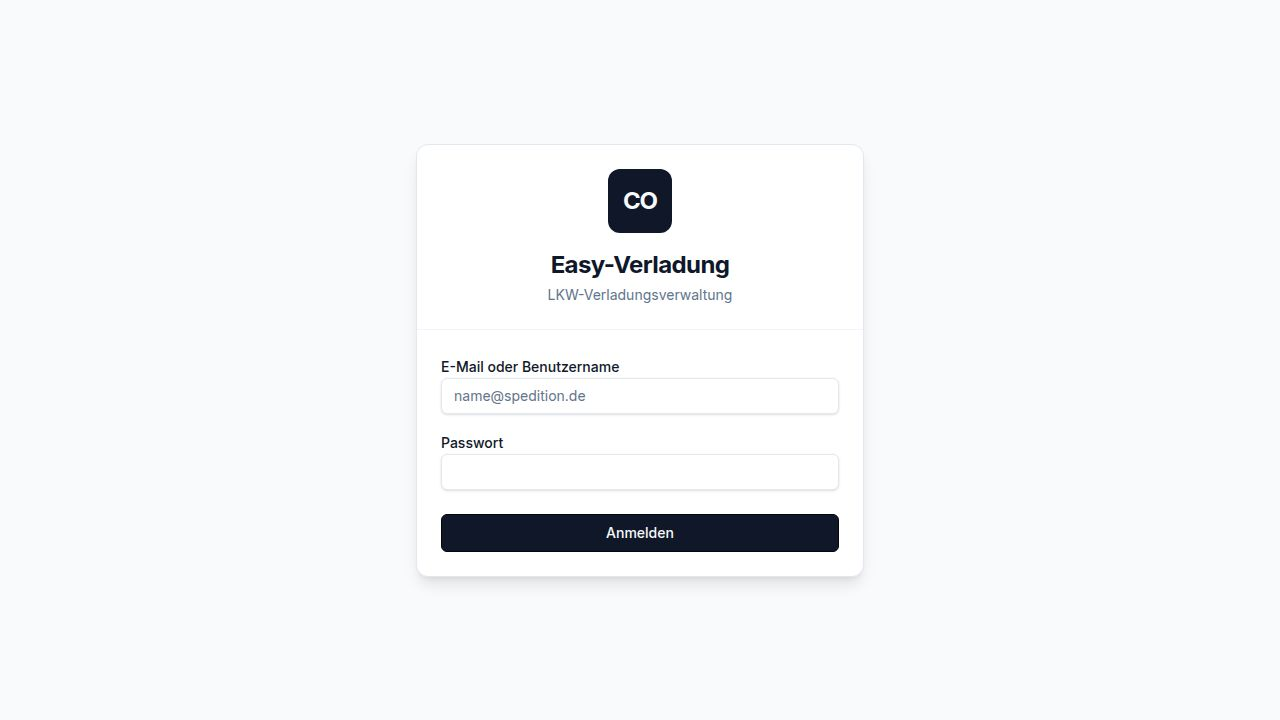
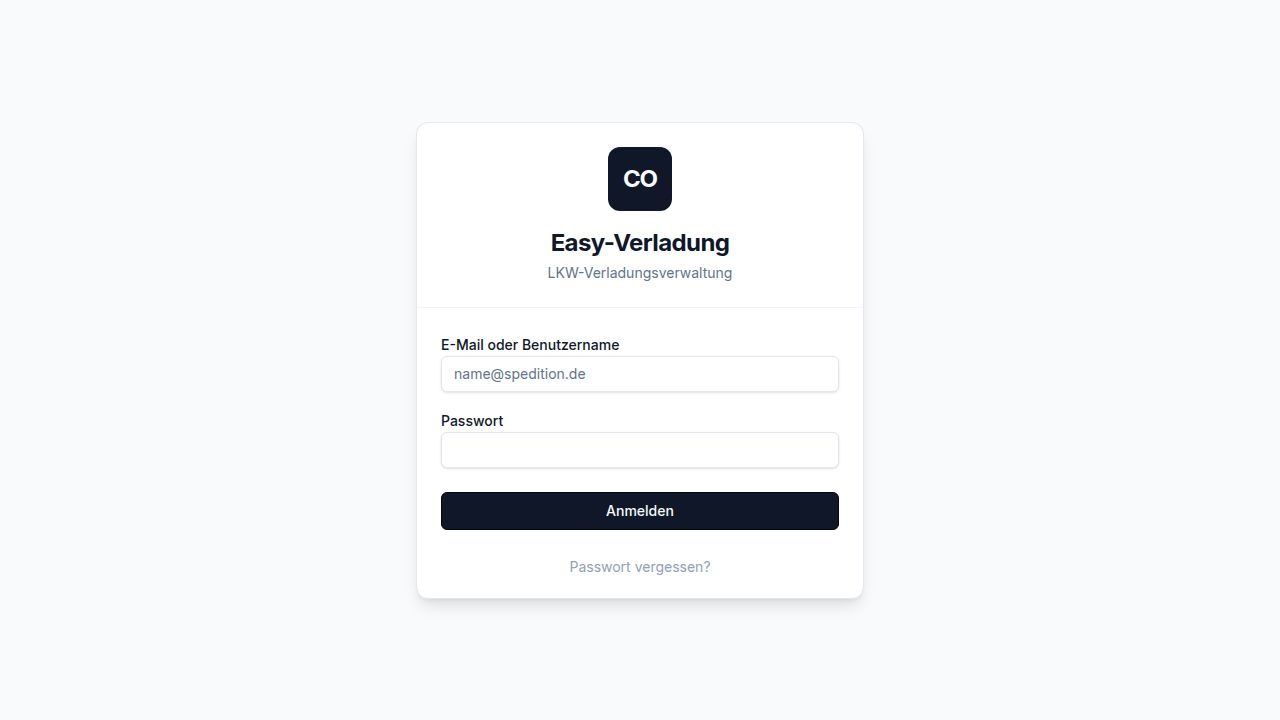
Add error display for push notification subscription failures
Implement a toast notification to inform users of push subscription errors and update the push notification hook to handle and display these errors.

Replit-Commit-Author: Agent
Replit-Commit-Session-Id: 8f7831d2-b04e-40cf-b1ed-1f4c592e6710
Replit-Commit-Checkpoint-Type: full_checkpoint
Replit-Commit-Event-Id: a2ac5193-3e23-4a90-b31a-fa5f7b5d62e4
Replit-Commit-Screenshot-Url: https://storage.googleapis.com/screenshot-production-us-central1/7ff45556-65b3-42a8-8e14-2ac3c5498ac5/8f7831d2-b04e-40cf-b1ed-1f4c592e6710/luD5ney
Replit-Helium-Checkpoint-Created: true

Changed region(s): [[0.3438, 0.6722, 0.6562, 0.825], [0.4062, 0.1833, 0.5938, 0.4278], [0.3438, 0.4583, 0.5, 0.6417]]

diff --git a/artifacts/comet-lkw/src/hooks/usePushNotifications.ts b/artifacts/comet-lkw/src/hooks/usePushNotifications.ts
@@ -20,40 +20,16 @@ export function usePushNotifications() {
   const [error, setError] = useState<string | null>(null);
 
   const checkState = useCallback(async () => {
-    // 1. Browser-Support
+    // Nur Browser-Support prüfen — Server-Check gehört in subscribe(), nicht hier.
+    // So bleibt der Button sichtbar, auch wenn VAPID noch nicht konfiguriert ist.
     if (!("serviceWorker" in navigator) || !("PushManager" in window) || !("Notification" in window)) {
       setState("unsupported");
       return;
     }
-
-    // 2. Server-Support — einmalige Prüfung; kein 503-Regen bei fehlendem VAPID-Key
-    try {
-      const keyRes = await fetch(`${API}/push/vapid-public-key`, {
-        credentials: "include",
-        signal: AbortSignal.timeout(5000),
-      });
-      if (!keyRes.ok) {
-        setState("unsupported");
-        return;
-      }
-      const keyData = await keyRes.json();
-      if (!keyData.supported || !keyData.publicKey) {
-        setState("unsupported");
-        return;
-      }
-    } catch {
-      // Netzwerkfehler oder Timeout → als nicht verfügbar behandeln
-      setState("unsupported");
-      return;
-    }
-
-    // 3. Benachrichtigungserlaubnis
     if (Notification.permission === "denied") {
       setState("denied");
       return;
     }
-
-    // 4. Vorhandenes SW-Abonnement prüfen
     try {
       const reg = await navigator.serviceWorker.getRegistration();
       if (!reg) {
@@ -74,11 +50,16 @@ export function usePushNotifications() {
   const subscribe = useCallback(async () => {
     setError(null);
     try {
-      // VAPID-Key laden (ist bereits geprüft in checkState, aber nochmal für den Schlüssel)
-      const keyRes = await fetch(`${API}/push/vapid-public-key`, { credentials: "include" });
-      if (!keyRes.ok) throw new Error("Server nicht bereit");
+      // Server-Support prüfen (VAPID konfiguriert?)
+      const keyRes = await fetch(`${API}/push/vapid-public-key`, {
+        credentials: "include",
+        signal: AbortSignal.timeout(8000),
+      });
+      if (!keyRes.ok) throw new Error("Server nicht erreichbar");
       const keyData = await keyRes.json();
-      if (!keyData.supported || !keyData.publicKey) throw new Error("Push auf Server nicht konfiguriert");
+      if (!keyData.supported || !keyData.publicKey) {
+        throw new Error("Push-Benachrichtigungen sind auf dem Server noch nicht konfiguriert (VAPID-Keys fehlen).");
+      }
 
       // Erlaubnis anfragen
       const permission = await Notification.requestPermission();
@@ -87,7 +68,7 @@ export function usePushNotifications() {
         return;
       }
 
-      // SW registrieren falls nicht vorhanden
+      // SW registrieren falls noch nicht vorhanden
       let reg = await navigator.serviceWorker.getRegistration(SW_PATH);
       if (!reg) {
         reg = await navigator.serviceWorker.register(SW_PATH, { scope: "/" });

diff --git a/artifacts/comet-lkw/src/components/layout/sidebar.tsx b/artifacts/comet-lkw/src/components/layout/sidebar.tsx
@@ -1,4 +1,4 @@
-import { useState } from "react";
+import { useState, useEffect } from "react";
 import { useQuery } from "@tanstack/react-query";
 import { useAuth } from "@/contexts/auth-context";
 import { Link, useLocation } from "wouter";
@@ -55,6 +55,7 @@ import {
 import { useNotifications, type AppNotification } from "@/hooks/use-notifications";
 import { usePushNotifications } from "@/hooks/usePushNotifications";
 import { usePresence, getPageName, ROLE_LABELS, type OnlineUser } from "@/hooks/use-presence";
+import { useToast } from "@/hooks/use-toast";
 import { useLocation as useWouterLocation } from "wouter";
 import { formatDistanceToNow } from "date-fns";
 import { de } from "date-fns/locale";
@@ -289,7 +290,14 @@ export function AppSidebar({ collapsed, onToggle, isDark, onToggleTheme }: AppSi
   const [showOnline, setShowOnline] = useState(false);
   const [collapsedCategories, setCollapsedCategories] = useState<Set<string>>(new Set());
   const { notifications, unreadCount, markRead, markAllRead, dismiss, dismissAll } = useNotifications();
-  const { state: pushState, subscribe: pushSubscribe, unsubscribe: pushUnsubscribe } = usePushNotifications();
+  const { state: pushState, error: pushError, subscribe: pushSubscribe, unsubscribe: pushUnsubscribe } = usePushNotifications();
+  const { toast } = useToast();
+
+  useEffect(() => {
+    if (pushError) {
+      toast({ title: "Push-Fehler", description: pushError, variant: "destructive" });
+    }
+  }, [pushError, toast]);
   const { onlineUsers } = usePresence(user?.id);
 
   const { data: pubSettings } = useQuery<Record<string, string>>({